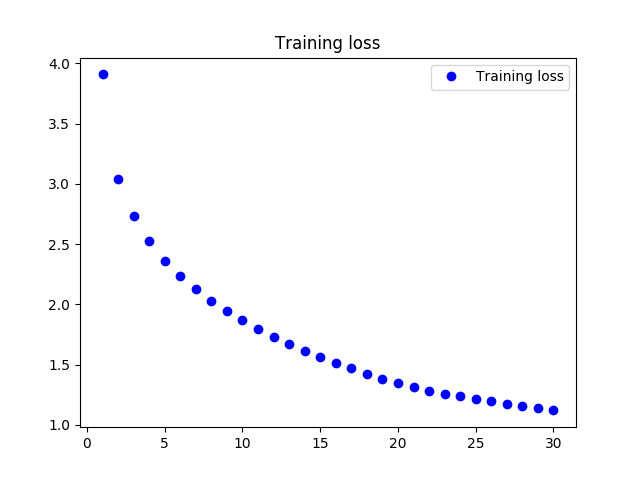
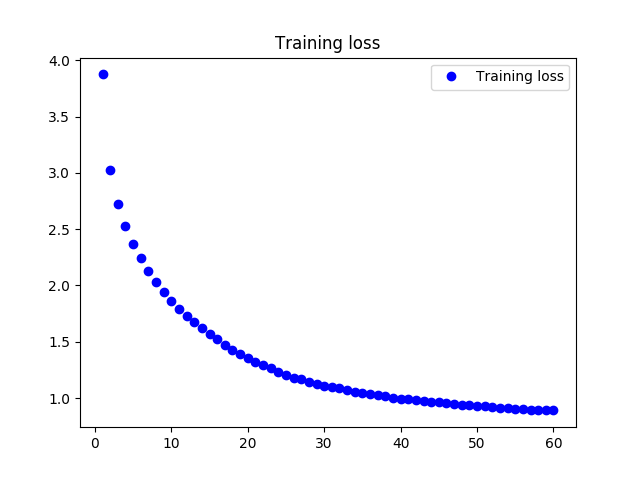
パラメータチューニングテスト

diff --git a/generate_nina_chan.py b/generate_nina_chan.py
@@ -43,7 +43,7 @@ def bind_on_epoch_end(model, text, maxlen, chars, char_indices, indices_char):
 
         start_index = random.randint(0, len(text) - maxlen - 1)
         # start_index = 0
-        for diversity in [0.2]:
+        for diversity in [0.4]:
             print('----- diversity:', diversity)
 
             generated = ''
@@ -123,7 +123,7 @@ def main():
 
     history = model.fit(x, y,
                         batch_size=128,
-                        epochs=30,
+                        epochs=60,
                         callbacks=[print_callback])
 
     # Plot Training loss & Validation Loss
